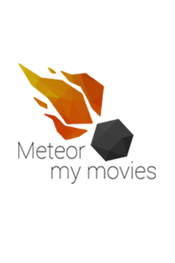
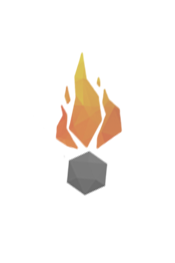
new orange design

Changed region(s): [[0.0857, 0.1825, 0.9143, 0.7605]]

diff --git a/client/css/lib/grid.css b/client/css/lib/grid.css
@@ -12,7 +12,71 @@ div#theGrid{width: 100%; float: left;}
 
 /* Items ----------------------------------------------------------------------------- */
 .container secton.grid a{}
-.grid__item img{min-height: 263px;}
-a.grid__item{width: calc(12.5% - 10px); float: left; padding: 5px; margin: 5px;}
+.grid__item img{}
+a.grid__item{float: left; padding: 5px; margin: 5px;}
 .title{margin: 0; text-overflow: ellipsis; white-space: nowrap; overflow: hidden;text-align: left;color: rgb(255, 255, 255); font-weight: 100;}
 .grid__item span.category{color: white; font-weight: 100; text-decoration: italic;}
+a.grid__item:hover{}
+.film-img{border: 0px solid rgb(196, 94, 3);transition-duration: 0.35s;width: 100%;height: 100%;background-size: cover;background-position: center;}
+.grid__item:hover > .content {
+    background-size: 50% 50%;}
+.grid__item:before {display: block;content: " ";width: 100%;padding-top: 180%;}
+.grid__item > .content {position: absolute; padding-bottom: 50px;top: 0;left: 0;right: 0;bottom: 0;}
+.grid__item:hover > .content .film-img{border: 10px solid white; border: 10px solid rgb(196, 94, 3);transition-duration: 0.35s;}
+
+.film-img:before {
+    position: absolute;
+    top: 40%;
+    left: 50%;
+    width: 66%;
+    height:37.5%;
+    content: '';
+    background: url(img/player.png);
+    opacity: 0;
+    -webkit-transition: opacity 0.35s, -webkit-transform 0.35s;
+    transition: opacity 0.35s, transform 0.35s;
+    -webkit-transform: translate3d(-50%,-50%,0)  scale3d(0,0,1);
+    transform: translate3d(-50%,-50%,0)  scale3d(0,0,1);
+    -webkit-transform-origin: 50%;
+    transform-origin: 50%;
+    background-size: cover;
+}
+
+.grid__item:hover > .content .film-img:before {
+    opacity: 1;
+    -webkit-transform: translate3d(-50%,-50%,0) scale3d(1,1,1);
+    transform: translate3d(-50%,-50%,0) scale3d(1,1,1);
+}
+
+
+
+
+/* Responsive grid ----------------------------------------------------------------------------- */
+
+
+@media screen and (min-width: 1680px){
+  a.grid__item {width: calc(12.5% - 10px);position: relative;}
+}
+
+@media screen and (min-width: 880px) and (max-width: 1679px) {
+  a.grid__item {width: calc(20% - 10px);position: relative;}
+}
+@media screen and (min-width: 600px) and (max-width: 880px) {
+  a.grid__item {width: calc(25% - 10px);position: relative;}
+}
+@media screen and (min-width: 400px) and (max-width: 599px) {
+  a.grid__item {width: calc(33% - 10px);position: relative;}
+}
+@media screen and (min-width: 0px) and (max-width: 399px) {
+  a.grid__item {width: calc(50% - 10px);position: relative;}
+}
+/*
+@media screen and (min-width: 1280px) and (max-width: 1479px) {
+  .film-img{min-height: 300px;}
+  a.grid__item{width: calc(16.66% - 12px);}
+}
+@media screen and (min-width: 880px) and (max-width: 1279px) {
+  .film-img{min-height: 312px;}
+  a.grid__item{width: calc(20% - 12px);}
+}
+*/

diff --git a/client/css/lib/header.css b/client/css/lib/header.css
@@ -8,3 +8,16 @@
 
 /* Header ----------------------------------------------------------------------------- */
 div#search{display: none;}
+
+/* Menu ----------------------------------------------------------------------------- */
+.hidden{display: none;}
+.linkheader img{ width: 30px;margin: 30px auto 20px auto; display: block;}
+a.linkheader{height: 90px;background: rgba(78, 78, 78, 0.28); float: left; width: 100%; margin-bottom: 5px;box-shadow: inset -1px 1px 1px 0px rgba(0,0,0,0.25); }
+a.linkheader:hover{background: rgba(43, 43, 43, 0.55);    cursor: help;}
+
+/* Search ----------------------------------------------------------------------------- */
+a:hover > #search{display: block;}
+#search{margin-top: -83px;margin-left: 92px;box-shadow: 1px 1px 5px 0px rgb(54, 54, 54);padding: 20px;background: rgb(59, 59, 59);width: 301px;}
+#search p{color: grey;line-height: 30px,color: rgb(154, 154, 154);width: 100%;display: block;text-align: left; font-size: 12pt;}
+#search input{margin-bottom: 9px;float: right;border: none;color:  #ad3a01;/* margin: 0px 0 0 0; */background: none;border-bottom: 1px solid  #ad3a01;font-size: 16pt; height: 26px;width: 100%;}
+input{outline: none;}

diff --git a/client/view/headerTemplate.html b/client/view/headerTemplate.html
@@ -1,8 +1,9 @@
-<template name="header">
-    <header id="header" > <!-- class="cl-effect-1" for efect [ ] -->
+<template name="headerTemplate">
+    <header id="header" class="cl-effect-1">
         <img id="logo" src="img/logo.png">
-        <a class="linkheader" href="#"><img src="img/more.png"><span class="hidden">A propos </span></a>
-        <a class="linkheader search" href="#"><img src="img/search.png"><span class="hidden">Rechercher &#8628;</span>
+        <a class="linkheader" href="#">A propos </a>
+        <a class="linkheader" href="#"><img src="img/search.png">Mettre à jour</a>
+        <a class="linkheader search" href="#">Rechercher &#8628;
             <div id="search">
                 <form id="form">
                     <label><p>Nom du film: <input id="querytitle"></p></label>
@@ -22,6 +23,5 @@
                 </form>
             </div>
         </a>
-        <a class="linkheader rotate" href="#"><img src="img/sync.png"><span class="hidden">Mettre à jour</span></a>
     </header>
 </template>

diff --git a/client/css/lib/main.css b/client/css/lib/main.css
@@ -16,7 +16,7 @@ body, html{margin: 0; padding: 0;}
 
 /* Skelett ----------------------------------------------------------------------------- */
 body{background: url(img/background.png); }
-header#header{width: 100px;float: left;position: fixed;height: 100%; background: rgba(255, 255, 255, 0.90); padding: 5px;}
+header#header{z-index:10;width: 100px;float: left;position: fixed;height: 100%; background: rgba(45, 45, 45, 0.7); padding: 5px;box-shadow: -2px 1px 2px rgba(39, 30, 31, 0.40) inset;}
 div.container{width: calc(100% - 100px); float: left;margin-left: 100px;}
 
 
@@ -26,3 +26,11 @@ div.container{width: calc(100% - 100px); float: left;margin-left: 100px;}
 .dark-orange{color: #ad3a01;}
 .dark-grey{color: #252525;}
 .light-grey{color : #474747;}
+
+/* Loading ----------------------------------------------------------------------------- */
+
+.load img#logo {
+    width: 400px;
+    margin: 0 auto;
+    display: block;
+}

diff --git a/client/view/movie.html b/client/view/movie.html
@@ -1,7 +1,7 @@
 <template name="movie">
             <a class="grid__item" href="/film/{{_id}}" id="{{_id}}">
-
-                <img class="film-img" src="{{#if themoviedb.poster_path}}https://image.tmdb.org/t/p/w396{{themoviedb.poster_path}}{{else}}img/noposter.png{{/if}}">
+                <div class="content">
+                <div class="film-img" style="background-image: url({{#if themoviedb.poster_path}}https://image.tmdb.org/t/p/w396{{themoviedb.poster_path}}{{else}}img/noposter.png{{/if}});"></div>
                 <h2 class="title orange">
                {{#if themoviedb.title}}
                        {{themoviedb.title}}
@@ -12,5 +12,6 @@
                 </h2>
                 <div class="loader"></div>
                 <span class="category">{{#if themoviedb.release_date}}{{themoviedb.release_date}}{{else}}Non trouvé{{/if}}</span>
+               </div>
             </a>
 </template>

diff --git a/client/css/lib/load/keyframe.css b/client/css/lib/load/keyframe.css
@@ -1,0 +1,28 @@
+a.rotate:hover > img {
+    cursor: auto;
+    -webkit-animation-name: spin;
+    -webkit-animation-duration: 1s;
+    -webkit-animation-iteration-count: infinite;
+    -webkit-animation-timing-function: linear;
+    -moz-animation-name: spin;
+    -moz-animation-duration: 1s;
+    -moz-animation-iteration-count: infinite;
+    -moz-animation-timing-function: linear;
+    -ms-animation-name: spin;
+    -ms-animation-duration: 1s;
+    -ms-animation-iteration-count: infinite;
+    -ms-animation-timing-function: linear;
+}
+
+@-moz-keyframes spin {
+    from { -moz-transform: rotate(0deg); }
+    to { -moz-transform: rotate(360deg); }
+}
+@-webkit-keyframes spin {
+    from { -webkit-transform: rotate(0deg); }
+    to { -webkit-transform: rotate(360deg); }
+}
+@keyframes spin {
+    from {transform:rotate(0deg);}
+    to {transform:rotate(360deg);}
+}

diff --git a/client/template/loading.html b/client/template/loading.html
@@ -1,3 +1,6 @@
 <template name="loading">
-  videojs is loading !
+  <div class="load">
+    videojs is loading !
+    <img id="logo" src="img/logo.png">
+  </div>
 </template>
